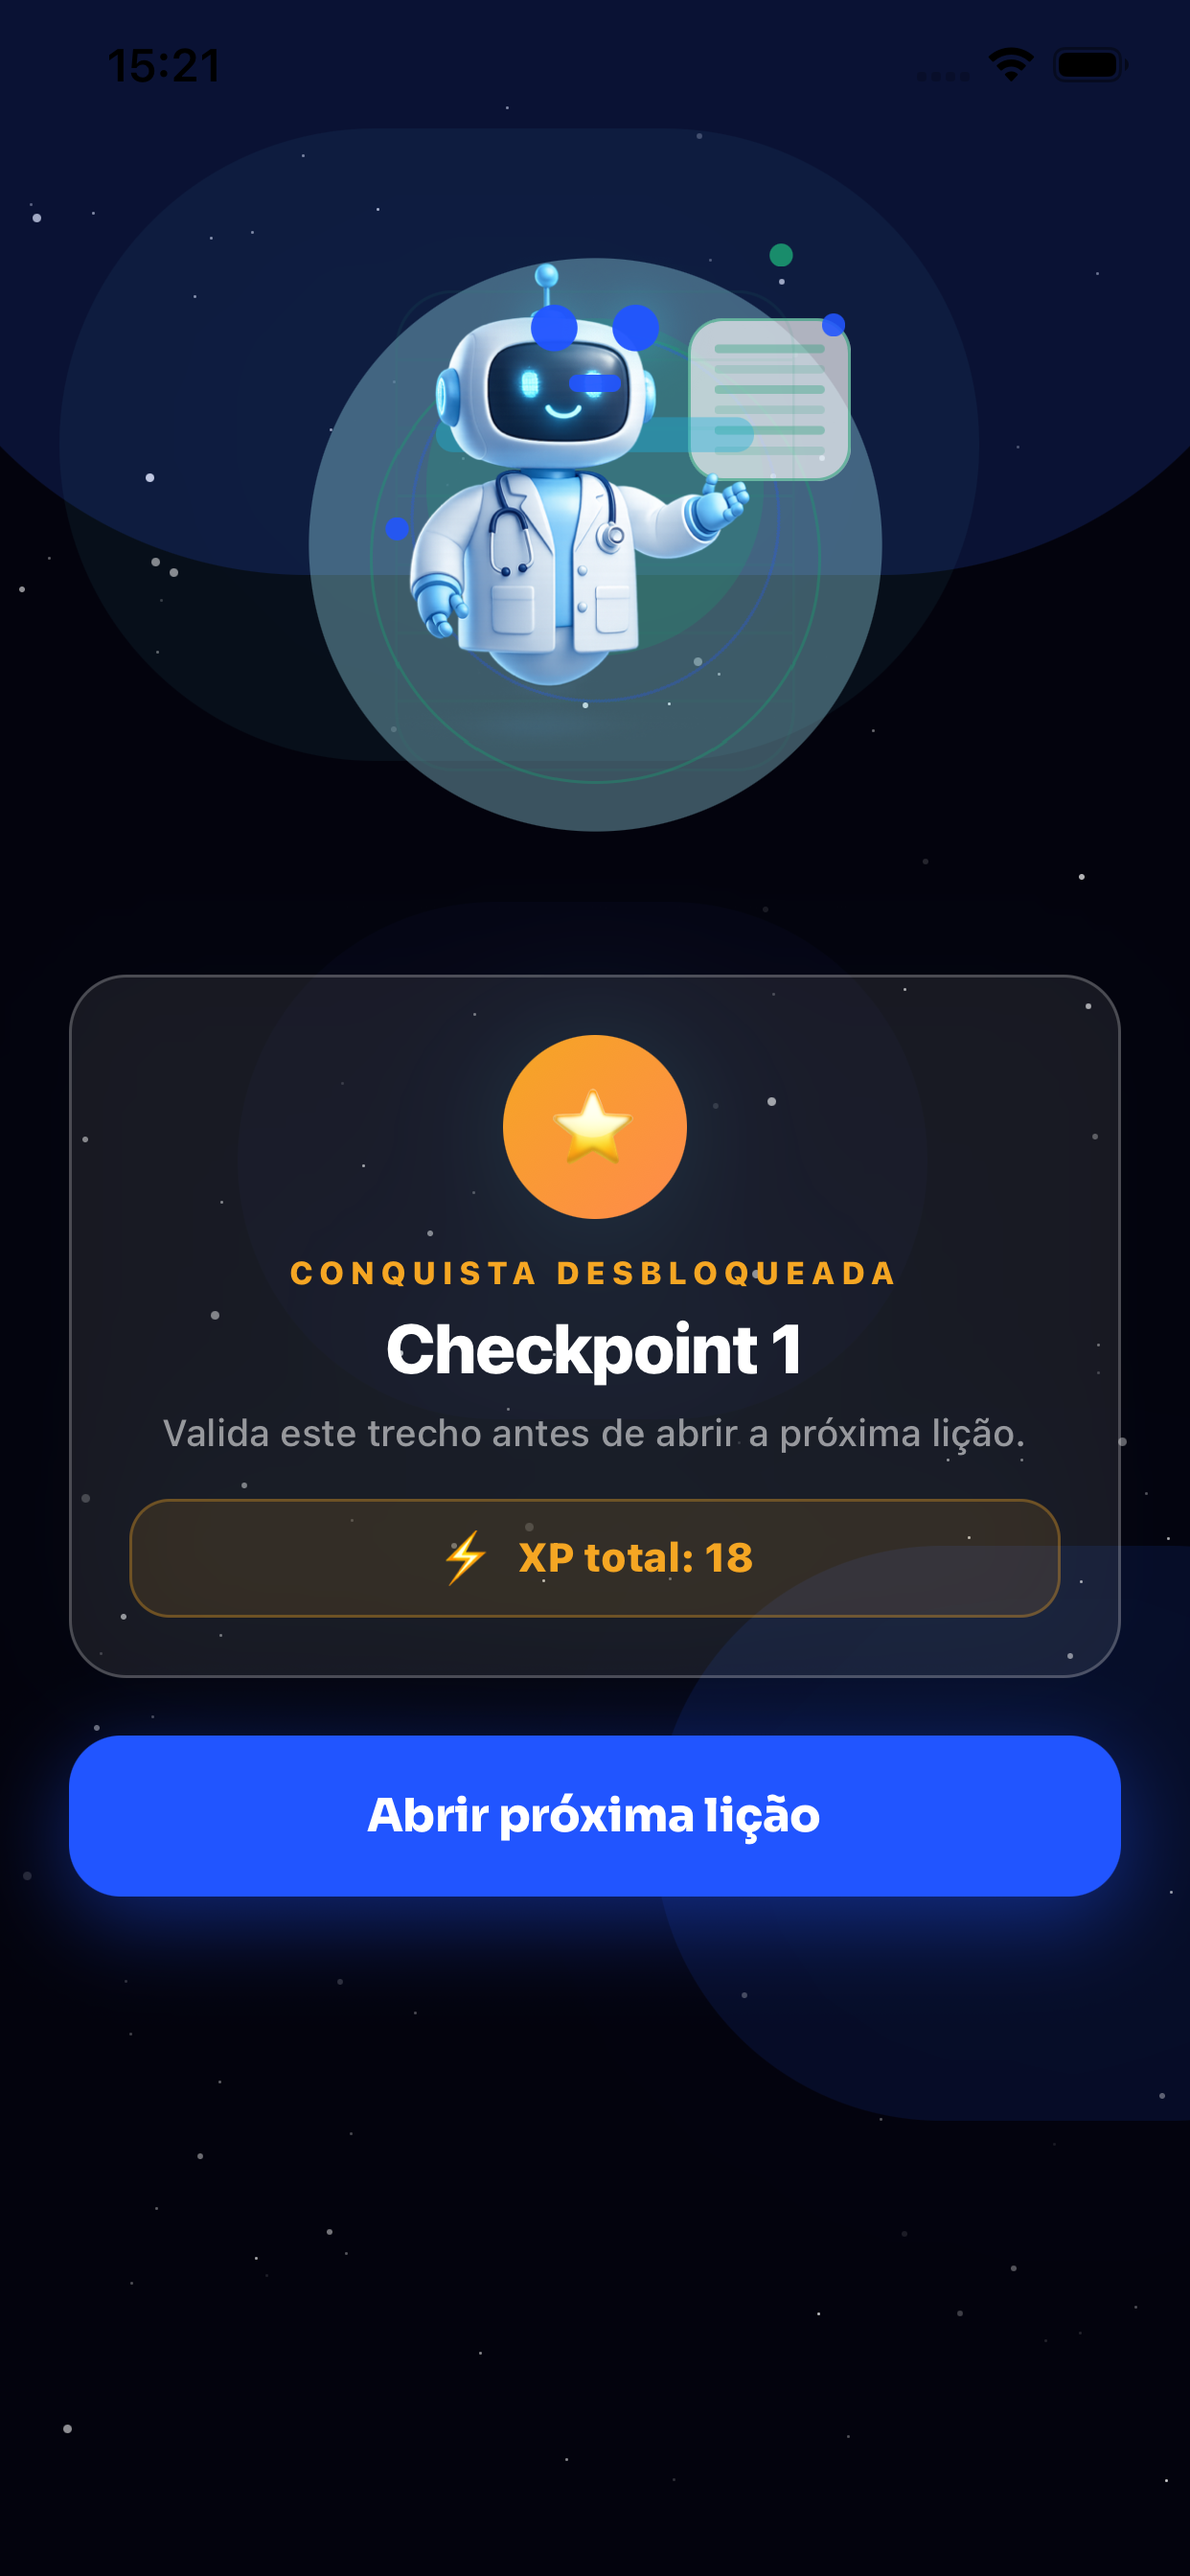
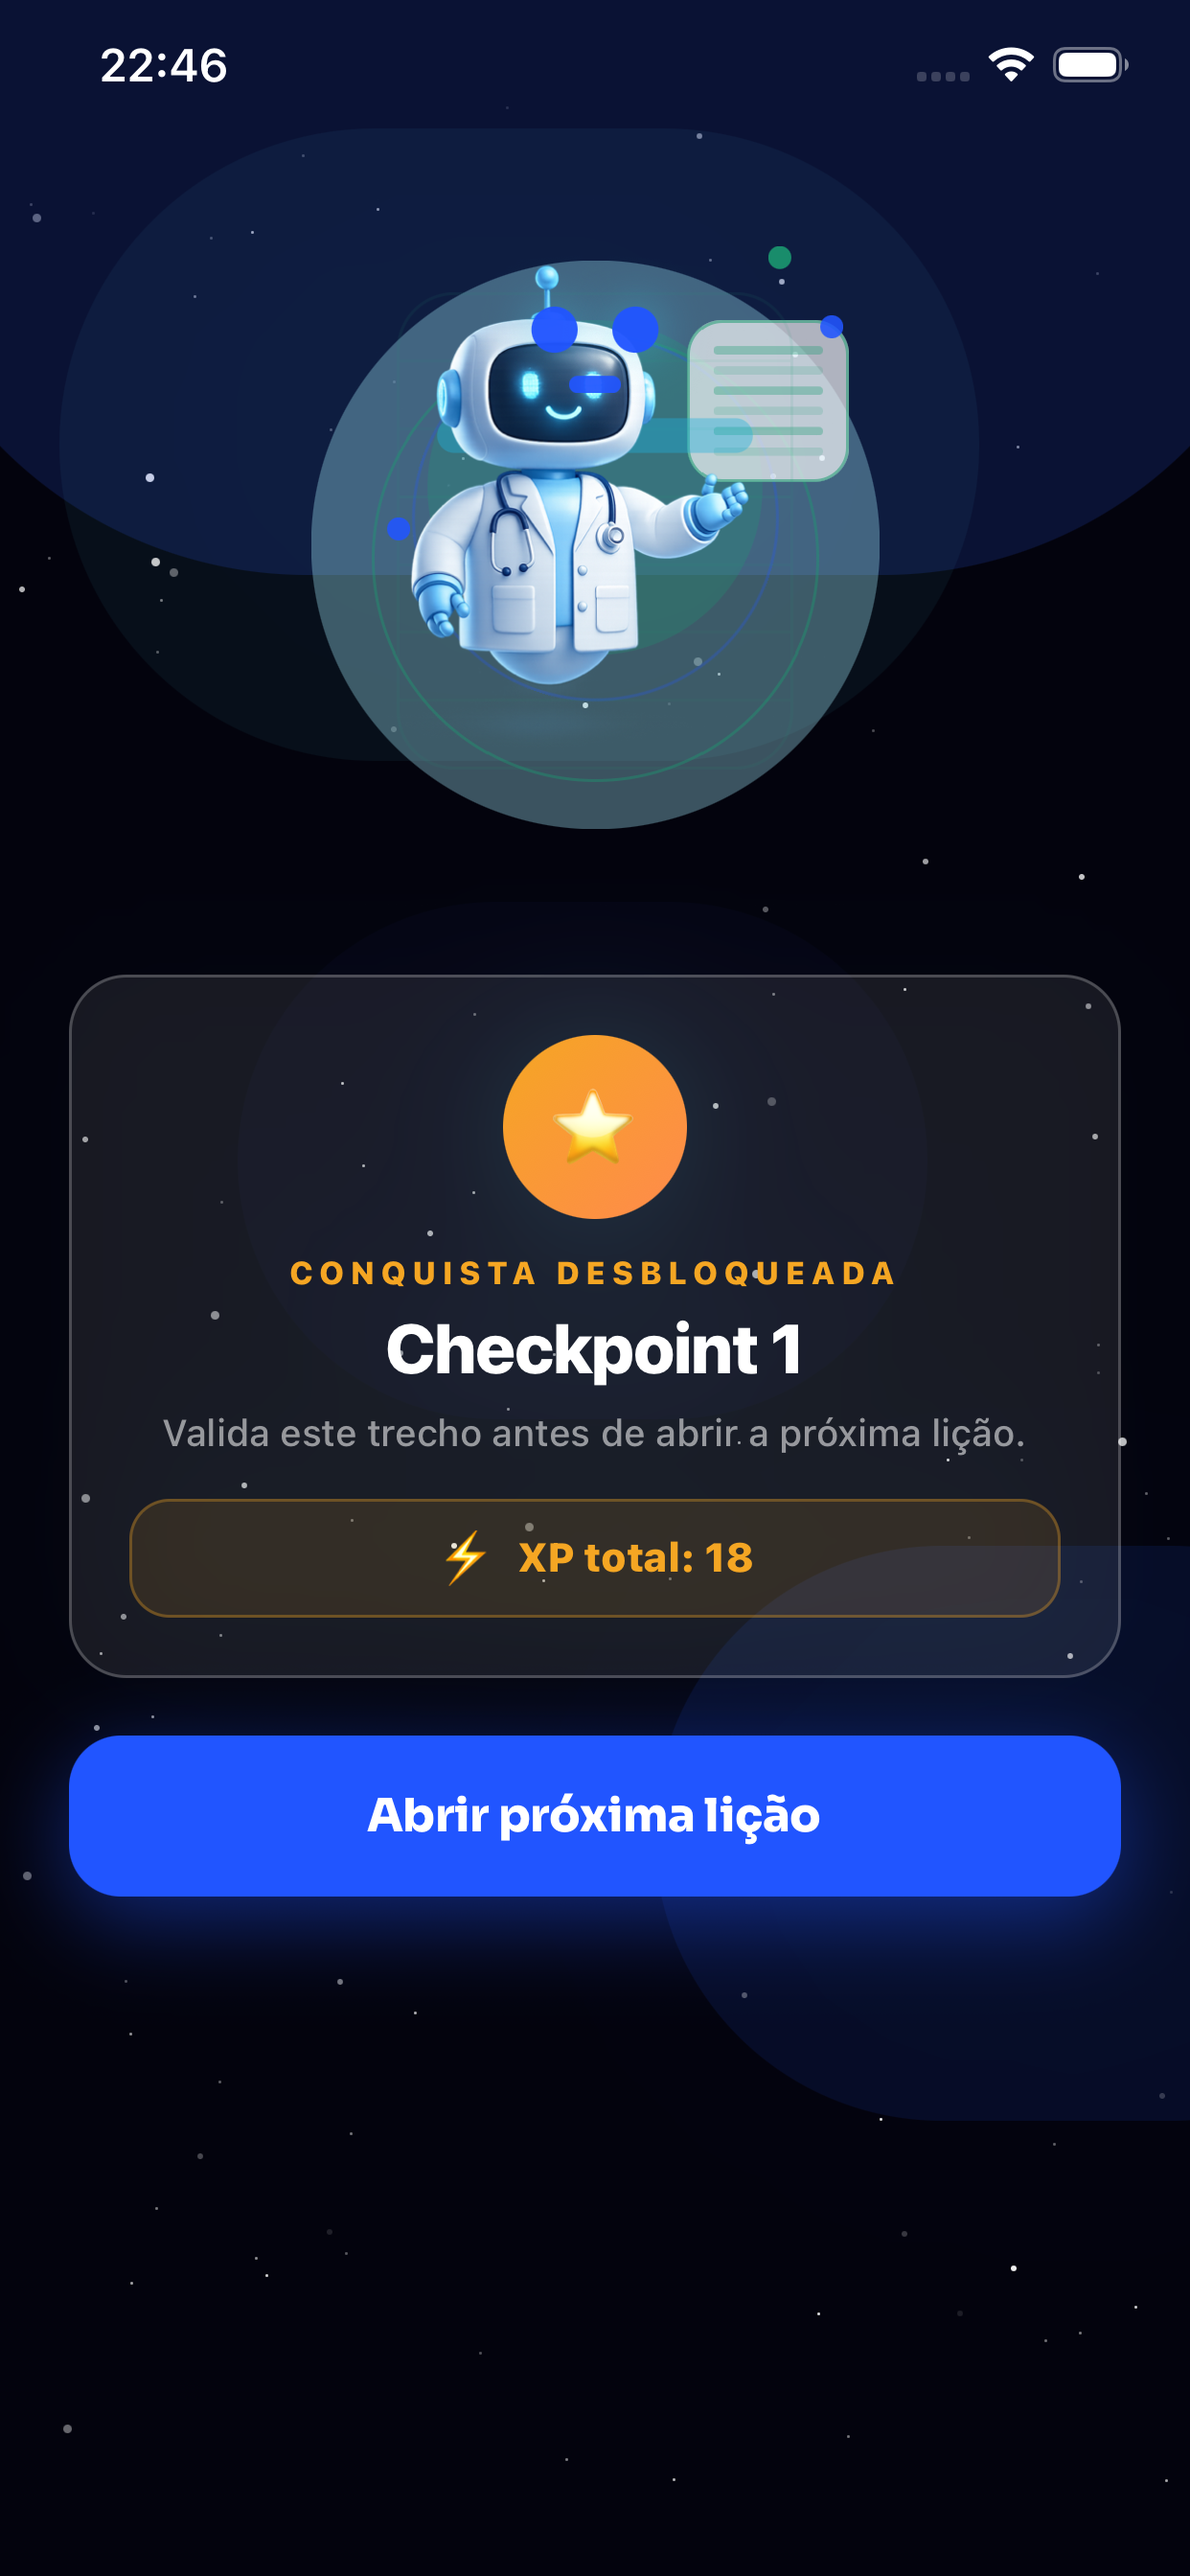
chore(store): regera os doze screenshots de iPhone dos dois buckets
O defeito da barra de status cobria **dezoito** imagens, nao seis: os
buckets 6,7" e 6,5" da App Store tinham o mesmo problema. No `01-home.png`
do 6,7", o relogio "14:59" era preto sobre preto.

Recapturados sobre build Release local da 1.3.1 com a correcao `b62f529`,
sob configuracao de producao, e normalizados por `--spec ios-67` e
`--spec ios-65`.

**Os simuladores da receita de 2026-07-30 nao existiam mais neste Xcode.**
iPhone 16 Plus e iPhone 11 Pro Max seguem disponiveis como *device
types*, sem instancias; recriados no runtime iOS 26.5, que os aceita, e
renderizam exatamente 1290x2796 e 1242x2688. A verificacao foi feita
ANTES da build, porque o `normalize-screenshots.py` e validador e nao
conversor: tamanho exato ou recusa. Nao ha pos-processamento que salve uma
captura no tamanho errado, e forcar um seria fabricar um asset que passa
no contrato sem ser o que ele afirma.

O 6,5" e a tela mais curta dos tres alvos, entao ele exercita justamente o
caso que motivava a guarda removida em `da877b2` -- a alternativa que
nasce visivel numa lista que nao rola. Passou em 448s, o que confirma que
o `scroll` fixo se sustenta ali.

Com isso a linha do iPhone no `ASSETS_DE_LOJA.md` deixa de dizer
"capturados, nao normalizados", redacao que ja estava desatualizada desde
2026-07-30.

loop validate 9/9 no run run-1785808133516-a9c9c305.

diff --git a/docs/store/ASSETS_DE_LOJA.md b/docs/store/ASSETS_DE_LOJA.md
@@ -11,7 +11,7 @@ contrato `radiant-app/scripts/icon-assets-contract.test.mjs` e o contrato roda n
 | Ícone da ficha | [`assets/play-icon-512.png`](assets/play-icon-512.png) | 512×512, PNG 32-bit **com** alpha, ≤ 1024 KB | ✅ 126 KB |
 | Feature graphic | [`assets/feature-graphic.png`](assets/feature-graphic.png) | 1024×500, **sem** alpha | ✅ |
 | Screenshots de telefone (Play) | [`assets/screenshots/`](assets/screenshots/) | ≥ 2, proporção ≤ 2:1, lado 320–3840 | ✅ 6 × 1080×1920 (1,778:1), **regerados em 2026-08-03** com a barra de status legível |
-| Screenshots de iPhone (App Store) | — | buckets 6,7" e 6,5" | ⚠ **capturados, não normalizados** — ver a seção do lado iOS |
+| Screenshots de iPhone (App Store) | [`assets/screenshots-ios-67/`](assets/screenshots-ios-67/) · [`assets/screenshots-ios-65/`](assets/screenshots-ios-65/) | buckets 6,7" (1290×2796) e 6,5" (1242×2688), tamanho **exato** | ✅ 12 × publicáveis, **regerados em 2026-08-03** com a barra de status legível |
 
 > **Por que foram regerados em 2026-08-03.** Os seis anteriores traziam a barra
 > de status do sistema em conteúdo escuro sobre `#03030d` — relógio, Wi-Fi, sinal
@@ -160,6 +160,25 @@ Seis telas em cada, todos RGB sem alpha. Reprodução:
 ```bash
 python3 scripts/assets/normalize-screenshots.py --spec ios-67 --src "$HOME/.maestro/tests/2026-07-30_145305/Store screenshot capture/takeScreenshot/shots" --out docs/store/assets/screenshots-ios-67
 ```
+
+> **Regerados em 2026-08-03, pelo mesmo defeito do lado Play.** Os doze
+> arquivos de 2026-07-30 traziam a barra de status do sistema em conteúdo escuro
+> sobre fundo escuro — no `01-home.png` do bucket 6,7", o relógio "14:59" era
+> praticamente invisível. Causa e correção em `b62f529`.
+>
+> **Os simuladores da receita acima não existiam mais neste Xcode.** O iPhone 16
+> Plus e o iPhone 11 Pro Max seguem disponíveis como *device types*, mas sem
+> instâncias criadas; foram recriados no runtime iOS 26.5, que os aceita, e
+> renderizam exatamente 1290×2796 e 1242×2688. Isso importa porque o
+> `normalize-screenshots.py` é **validador, não conversor**: ele exige tamanho
+> exato nos buckets de iPhone e recusa o resto, então a resolução tem de vir do
+> simulador certo — não há pós-processamento que salve uma captura no tamanho
+> errado, e forçar um seria fabricar um asset que passa no contrato sem ser o que
+> ele afirma.
+>
+> Novas origens: `~/.maestro/tests/2026-08-03_223304/` (6,7", 398s) e
+> `~/.maestro/tests/2026-08-03_224052/` (6,5", 448s), ambas sobre build Release
+> local sob configuração de produção.
 
 **Travados no contrato**, não deixados como artefato de uma execução só:
 `icon-assets-contract.test.mjs` foi de 11 para **14 testes**, com uma asserção de

diff --git a/radiant-app/docs/evidence/2026-08-03-c2-smoke-android.md b/radiant-app/docs/evidence/2026-08-03-c2-smoke-android.md
@@ -83,8 +83,30 @@ home para o launcher, sem rota presa nem estado perdido. **Não há defeito
 funcional**; o que se perde é a animação preditiva do Android. A escolha se
 sustenta — agora por medição, não por inércia.
 
-## Consequência operacional
+## Consequência operacional — resolvida na mesma data
 
-Os seis screenshots do Play precisam ser recapturados com a correção, e o AAB
-`1.3.1 (5)` gerado mais cedo nesta data **precede a correção**. Quem for subir
-para a faixa fechada deve usar a build seguinte, não aquela.
+O defeito não cobria seis imagens, e sim **dezoito**: os dois buckets de iPhone
+tinham o mesmo problema. Todos os três conjuntos foram regerados em 2026-08-03,
+com a correção:
+
+| Conjunto | Aparelho | Tamanho | Tempo da captura |
+| --- | --- | --- | ---: |
+| Play | emulador API 36 a `wm size 1080x1920` | 1080×1920 | 820s |
+| App Store 6,7" | simulador iPhone 16 Plus | 1290×2796 | 398s |
+| App Store 6,5" | simulador iPhone 11 Pro Max | 1242×2688 | 448s |
+
+O AAB `1.3.1 (5)`, gerado mais cedo nesta data, **precede a correção** e não deve
+ser usado. A build que a substitui é a `1.3.1 (6)`.
+
+Duas notas do pipeline, medidas aqui:
+
+1. **A primeira captura logo após `wm size` falhou, e não era defeito de flow.**
+   O `tapOn: Continuar jornada` caiu na tab bar, o que parecia a mesma oclusão que
+   já mordeu este projeto duas vezes. A hierarquia desmentiu: o CTA ficava em
+   y1505–1652 com a tab bar em y1729 — 77px de folga. Era transitório de
+   redimensionamento, e a reexecução com o aparelho assentado passou. Registrado
+   porque a "correção" pela hipótese teria acrescentado uma regra permanente ao
+   contrato do Maestro para um defeito inexistente.
+2. **Os simuladores da receita de 2026-07-30 não existiam mais.** Foram recriados
+   como *device types* no runtime iOS 26.5 e renderizam os tamanhos exatos. O
+   `normalize-screenshots.py` é validador, não conversor.
